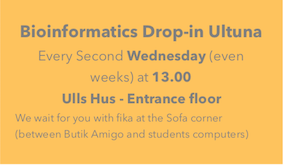
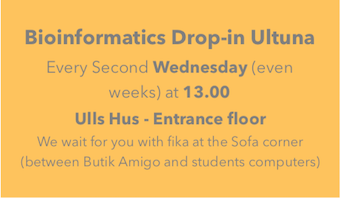
Added info to drop-in tab

diff --git a/_site/index.html b/_site/index.html
@@ -73,7 +73,7 @@ We want to join forces and coordinate teaching activities, common resources (har
 
 <p><strong>VH faculty:</strong>
 To get bioinformatics support at VH faculty, please send and email to: <a href="slubi-vh@slu.se">slubi-vh@slu.se</a>.
-We will arrange a first consultation meeting to discuss your project and what kind of support is needed. The consultation is for free. We provide short term support for free (one or two days)
+We will arrange a first consultation meeting to discuss your project and what kind of support is needed. The consultation is for free. We provide short term support for free (one or two days).
 For additional support (long term), the support fee is 600 SEK/h.</p>
 
 <p><strong>LTV faculty:</strong>
@@ -92,13 +92,17 @@ Information soon available</p>
   <div class="container"><header>
 			<h2>Drop-in sessions</h2></header><p>SLUBI organises Bioinformatics drop-in sessions at all 3 campuses for answering various Bioinformatics questions around a fika. It is also the opportunity for bioinformaticians to gather and exchange about their experiences.</p>
 
-<h1 id="in-ultuna-on-wednesdays-at-1300-ulls-hus">In Ultuna on Wednesdays at 13.00 (Ulls Hus)</h1>
+<h1 id="in-ultuna">In Ultuna</h1>
 
-<p><img src="assets/images/frame_dropin_ultuna.png" alt="Dropin_flyer" /></p>
+<p>Every second <strong>Wednesday (even weeks) 13.00-14.00 in Ulls Hus - entrance floor</strong>. We wait for you with fika at the sofa’s corner (between butik Amigo and students computers).</p>
 
 <h1 id="in-umeå">In Umeå</h1>
 
+<p>Usually on <strong>Mondays 10.00-12.00 at UPSC bioinformatics facility (UPSC, KBC, room KB.K3)</strong>. Please contact Nicolas (nicolas.delhomme@umu.se) before to make sure that there is a drop-in that day and/or to get access to the place (UmU house).</p>
+
 <h1 id="in-alnarp">In Alnarp</h1>
+
+<p>No regular drop-in at SLU Alnarp but NBIS dropin at Lund University on Wednesdays 10 am <a href="https://www.biology.lu.se/services/national-bioinformatics-infrastructure">(more info here)</a></p>
 </div>
 </section>
 <section id="about-us" class="shade-three">

diff --git a/_sections/2b_dropin.md b/_sections/2b_dropin.md
@@ -7,10 +7,15 @@ order: 3
 
 SLUBI organises Bioinformatics drop-in sessions at all 3 campuses for answering various Bioinformatics questions around a fika. It is also the opportunity for bioinformaticians to gather and exchange about their experiences.
 
-# In Ultuna on Wednesdays at 13.00 (Ulls Hus)
+# In Ultuna
 
-![Dropin_flyer](assets/images/frame_dropin_ultuna.png)
+Every second **Wednesday (even weeks) 13.00-14.00 in Ulls Hus - entrance floor**. We wait for you with fika at the sofa's corner (between butik Amigo and students computers).
+
 
 # In Umeå
 
+Usually on **Mondays 10.00-12.00 at UPSC bioinformatics facility (UPSC, KBC, room KB.K3)**. Please contact Nicolas (nicolas.delhomme@umu.se) before to make sure that there is a drop-in that day and/or to get access to the place (UmU house).
+
 # In Alnarp
+
+No regular drop-in at SLU Alnarp but NBIS dropin at Lund University on Wednesdays 10 am [(more info here)](https://www.biology.lu.se/services/national-bioinformatics-infrastructure)

diff --git a/_sections/2_support.md b/_sections/2_support.md
@@ -10,7 +10,7 @@ order: 2
 
 **VH faculty:**
 To get bioinformatics support at VH faculty, please send and email to: [slubi-vh@slu.se](slubi-vh@slu.se).
-We will arrange a first consultation meeting to discuss your project and what kind of support is needed. The consultation is for free. We provide short term support for free (one or two days)
+We will arrange a first consultation meeting to discuss your project and what kind of support is needed. The consultation is for free. We provide short term support for free (one or two days).
 For additional support (long term), the support fee is 600 SEK/h.
 
 **LTV faculty:**
